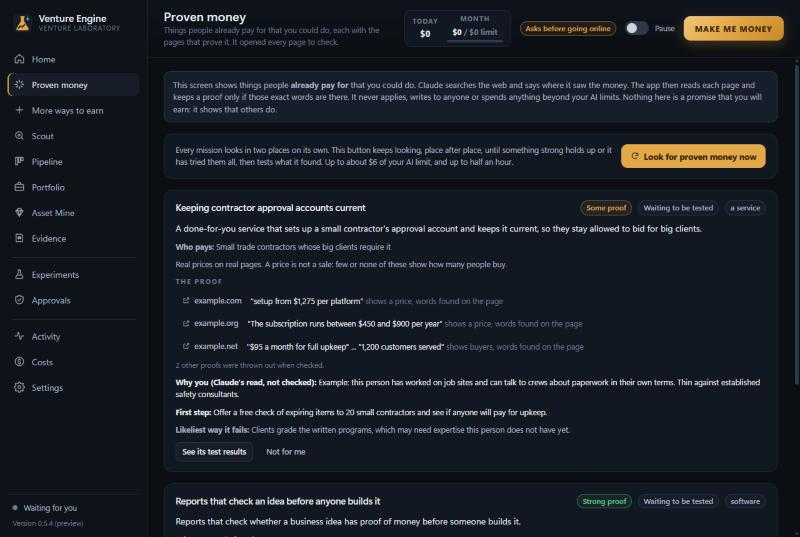
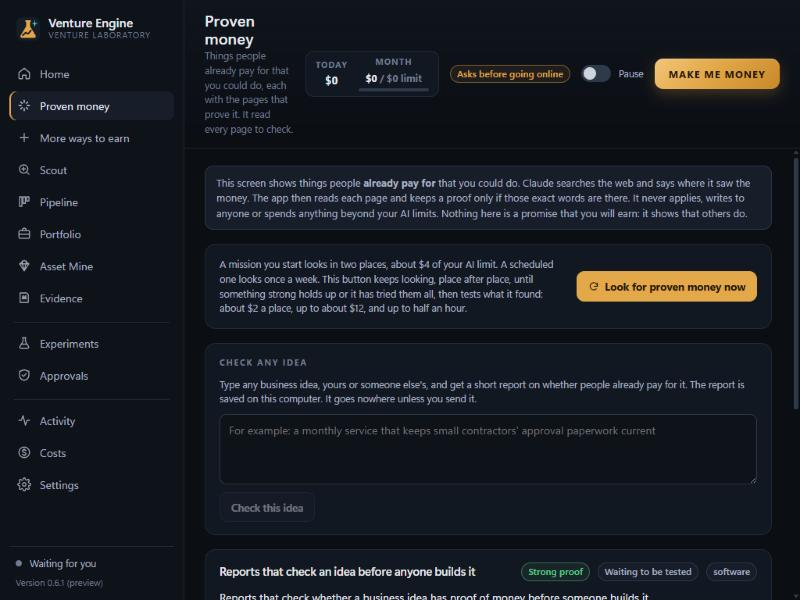
v0.6.1: Check any idea

diff --git a/README.md b/README.md
@@ -37,7 +37,7 @@ When an idea passes, it gets a plain one-page test: real complaints first (no na
 
 ![Proven money: what people already pay for, each with the pages that prove it, what was thrown out, a first step and the likeliest way it fails](shots/10-proven-money.png)
 
-Complaints rarely mention money, so ideas built on them stay weak. This screen starts from where money already changes hands. Claude searches the live web and says where it saw it. The app then reads each page and keeps a proof only if those exact words are there, and how strong an idea is comes from the pages alone. A price is called a price, not a sale. It is a check on evidence, not a promise of income: on its first real runs it named 19 ideas, kept 2, and rated neither as strong. Example content shown.
+Complaints rarely mention money, so ideas built on them stay weak. This screen starts from where money already changes hands. Claude searches the live web and says where it saw it. The app then reads each page and keeps a proof only if those exact words are there, and how strong an idea is comes from the pages alone. A price is called a price, not a sale. **Check any idea** does the same for one idea and writes a short report, with what was thrown out, why it could fail and the smallest test. It is a check on evidence, not a promise of income: on its first real runs it named 19 ideas, kept 2, and rated neither as strong. Example content shown.
 
 ## More ways to earn
 
@@ -84,7 +84,7 @@ Research only. Research and build on this computer. Or also get tests ready to g
 
 ## Status
 
-Version 0.6.0, for Windows. 213 automated tests (the full loop among them, on a real database file, and seventeen for missions and look-ups), a walkthrough of the real screens, and every built-in mission address checked live before release. The screenshots here come from a fresh, empty profile.
+Version 0.6.1, for Windows. 221 automated tests (the full loop among them, on a real database file, and seventeen for missions and look-ups), a walkthrough of the real screens, and every built-in mission address checked live before release. The screenshots here come from a fresh, empty profile.
 
 The code is private.
 
